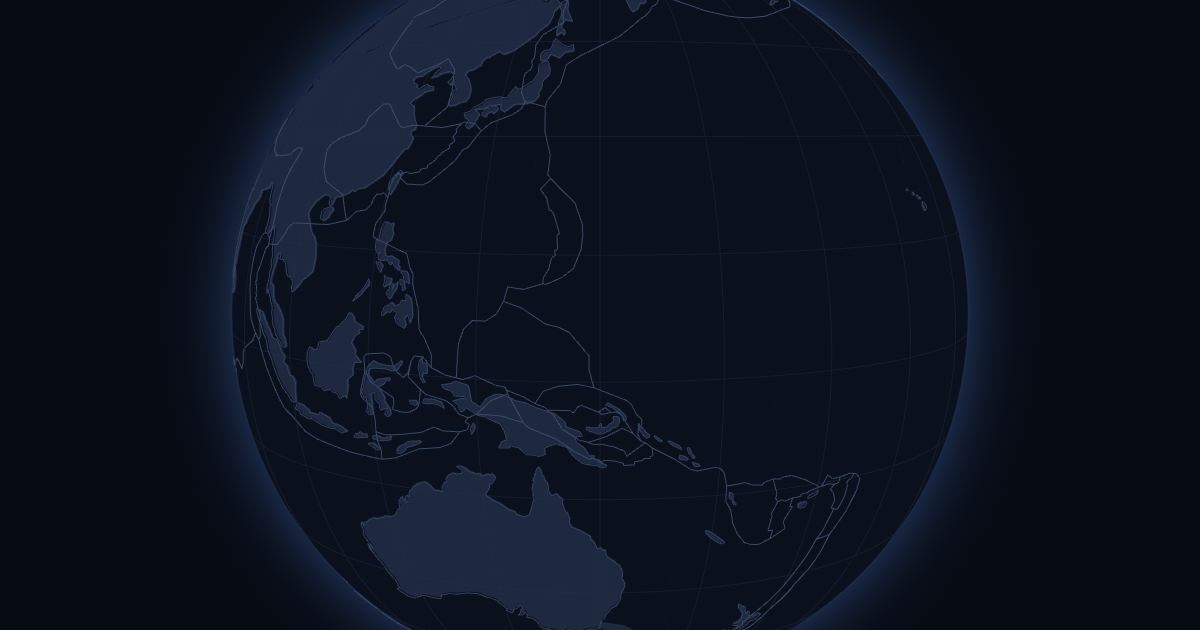
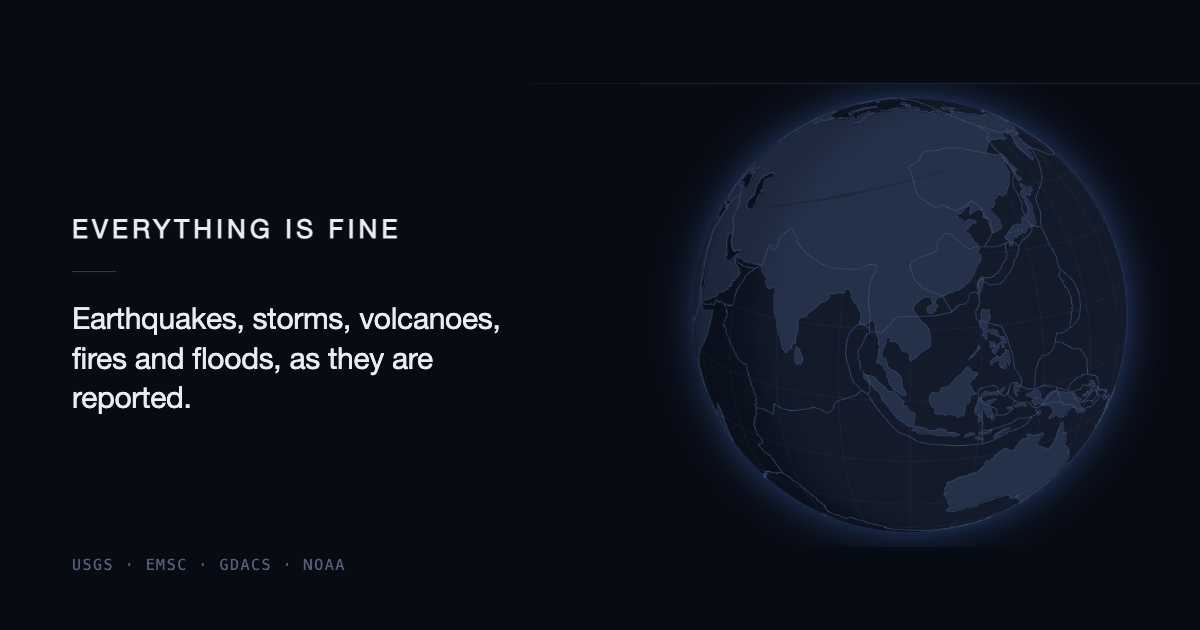
feat: make the share card runnable and honest, refresh it for the rename

diff --git a/ARCHITECTURE.md b/ARCHITECTURE.md
@@ -3552,6 +3552,51 @@ available; `preventDefault` on the summary stops the native toggle and React own
 **Unverified:** nothing about this. Checked in the browser - it folds, the slider and both source buttons
 survive it, the choice persists across a reload, and the summary is still keyboard-reachable.
 
+## The share card had never been runnable, and then it lied
+
+Regenerating the card for the rename turned up three faults in a row, each hidden behind the one before.
+
+**`pnpm card` had never run.** `make-card.mjs` imported `playwright`, which is not a dependency here -
+only `@playwright/test` is - so it failed with `ERR_MODULE_NOT_FOUND` every time. The file's own opening
+paragraph complains that the previous card could not be rebuilt because its script was never committed;
+the committed replacement could not be rebuilt either.
+
+**`m=7.5` stopped meaning "an empty globe".** The script's rule is that no real events go on a card,
+because clients cache it for days and yesterday's seismicity presented as now is the unlabelled-sample-data
+lie DESIGN.md section 10 forbids. It enforced that by setting the magnitude filter above every earthquake -
+which the new layers ignore entirely, correctly, since a fire has no magnitude. The first card built after
+this week's work had a hundred wildfires and a minute-old aurora forecast on it.
+
+**And the rings are not magnitude-filtered either.** With the hazard feeds blocked, the card still came out
+with three orange wavefront rings on it at `m=7.5`: one moment's earthquakes, exactly what the rule exists
+to prevent. So every feed is now blocked at the network - including the EMSC **WebSocket**, which
+`page.route` does not see and which needs `routeWebSocket` or a single live arrival lands a ring on an image
+cached for days. Blocked rather than switched off in the app, because a flag existing only to make this
+picture is what the magnitude trick was chosen over in the first place.
+
+Two couplings fell out of that and are written down where they will be read. The wait went from 7s to 11s:
+the boundary reveal normally starts when the entrance replay finishes, and with no feed answering there is
+no replay, so it starts on its 8s fallback in `Globe.tsx` and takes 1.5s to grow - 7s would now produce a
+card with no tectonics on it. And `locator.screenshot()` **clips the page to an element's box rather than
+isolating the element**, so the key-hint row overlaid on the canvas was being photographed onto the card:
+"arrows orbit + - zoom" across the bottom of a social preview. Hidden with an injected style for the shot,
+because it is right on screen and wrong only in a picture of it.
+
+The card's line now names what the app actually shows - earthquakes, storms, volcanoes, fires and floods -
+and the footer credits GDACS and NOAA beside USGS and EMSC.
+
+## Deployed, and what the edge did with it
+
+Live at `everythingisfine.aidenjang.com`, verified rather than assumed: the title, `og:image`, and four of
+the five new sentences read back out of the served bundle, with `theOf`'s word list and `legendKey` standing
+in for the two that are composed at runtime and so cannot appear as literals.
+
+**The first check found a stale card.** The plain URL returned the old 132,780-byte image with
+`cf-cache-status: HIT` while a cache-busted request returned the new 163,250. Assets are served
+`max-age=0, must-revalidate`, and the edge revalidated on its own within a couple of minutes, so nothing
+needed purging - but "wrangler said it uploaded" and "the internet is serving it" are different claims, and
+a social card is the one asset where the difference is visible to everyone.
+
 ## Open, and honestly so
 
 Written last, and kept accurate rather than kept short.
